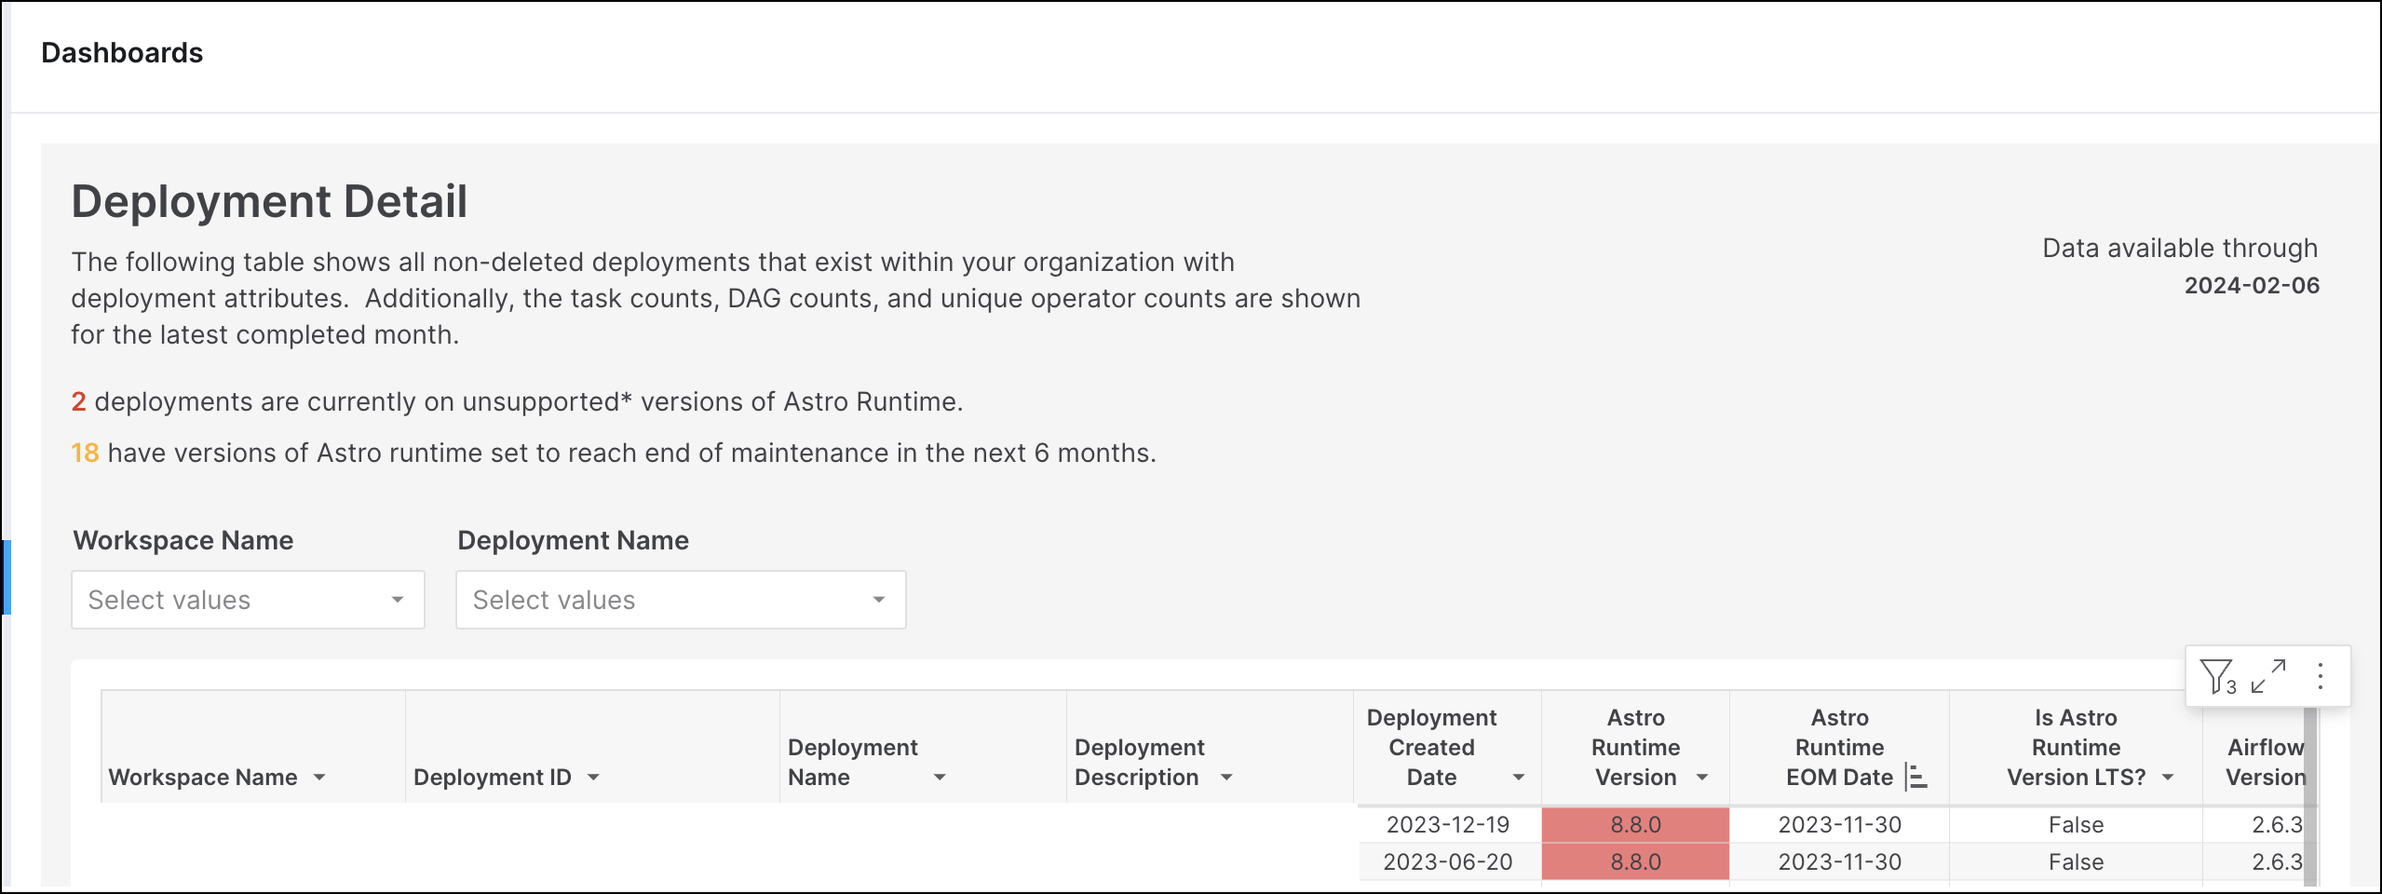
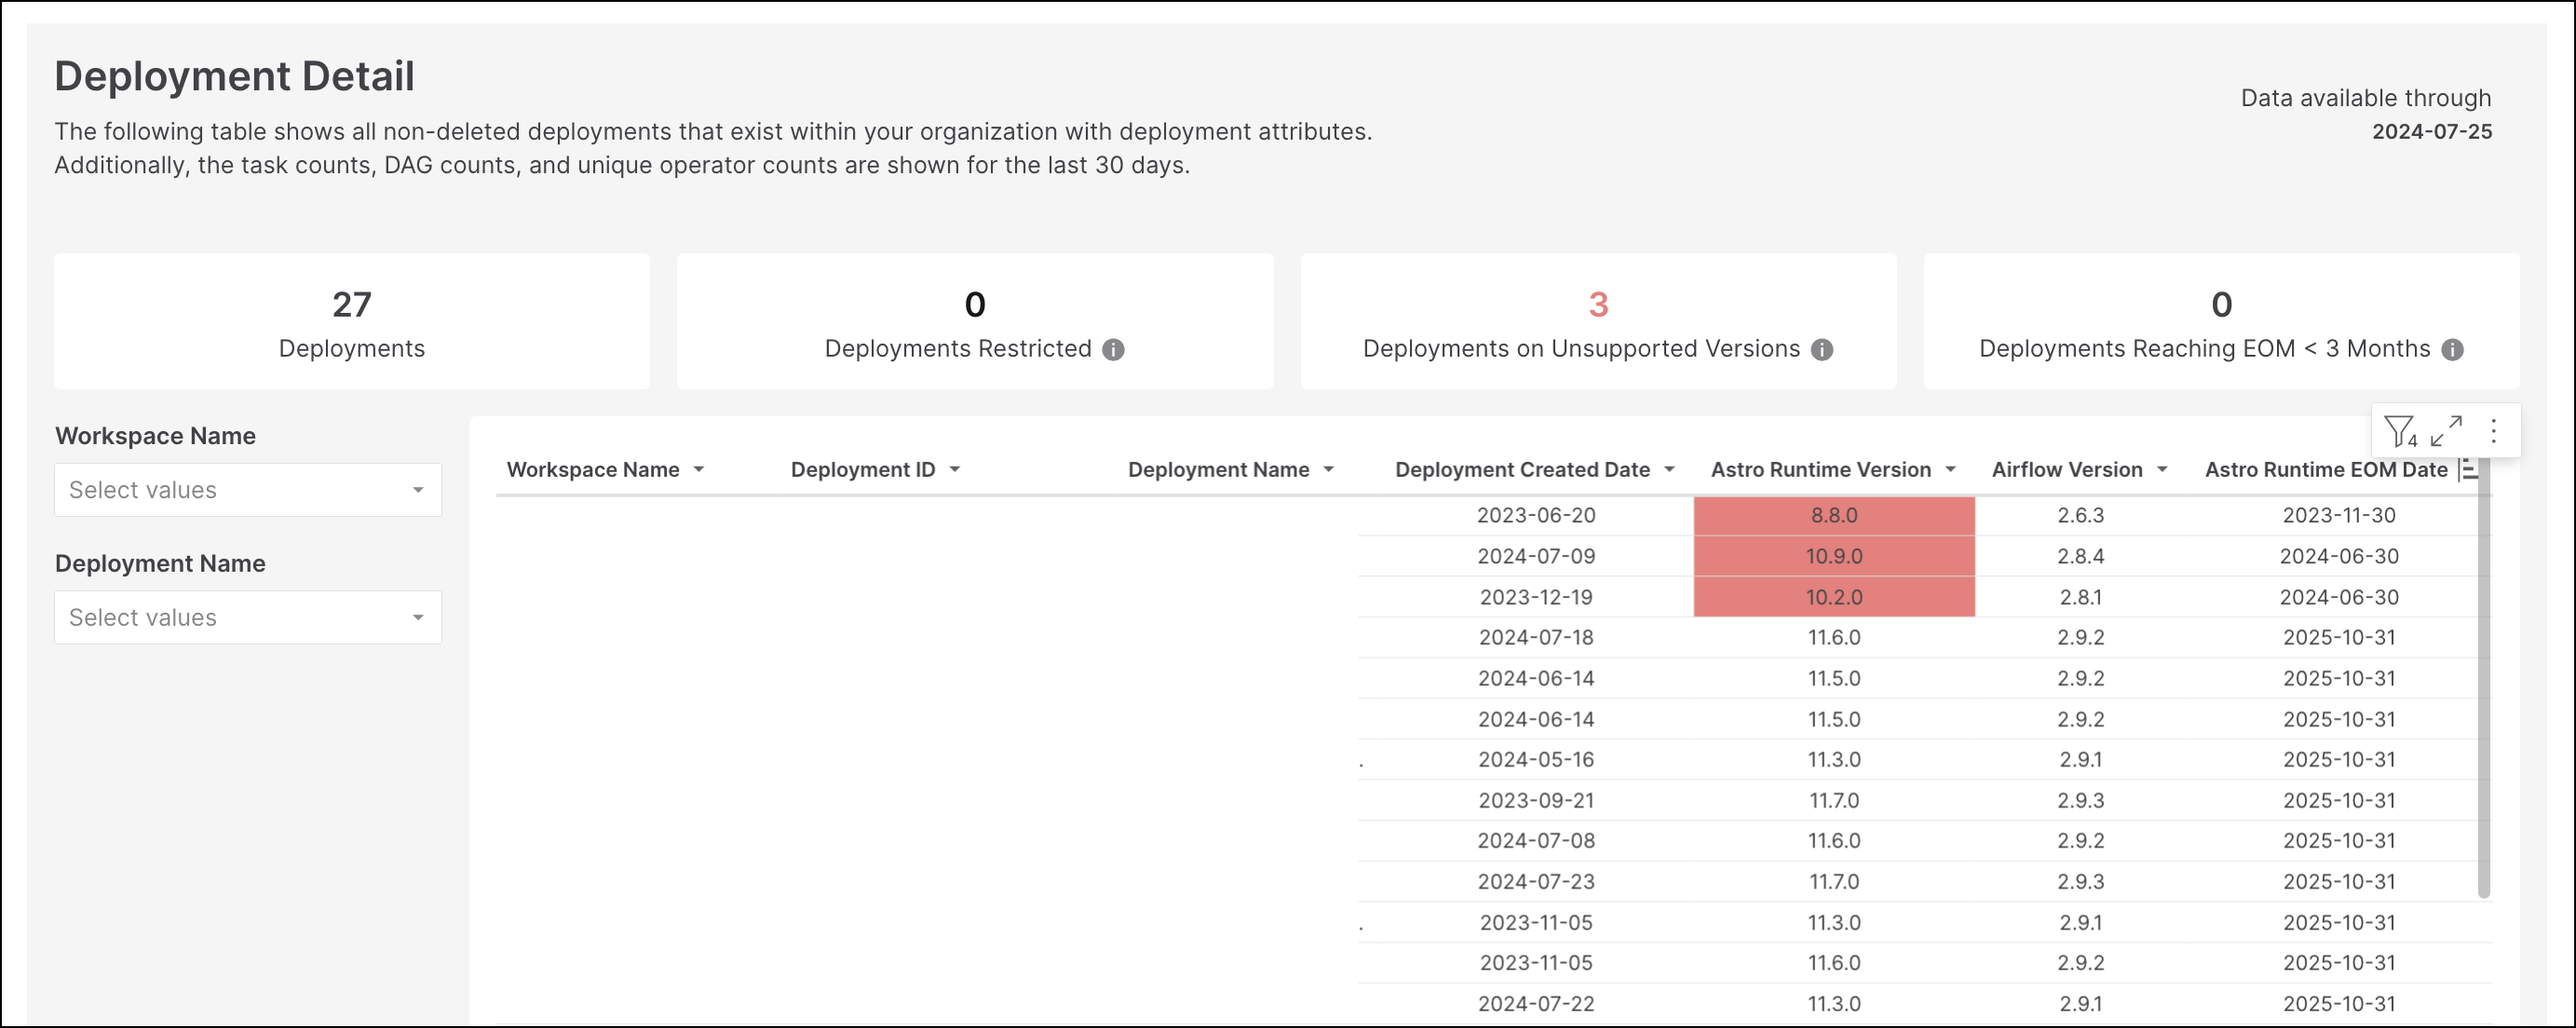
[Hold til 7/30 release] Make minor updates to the Organization Dashboard doc (#3956)
* Make minor updates to the Organization Dashboard doc

Everything looks great still, but there are few trivial changes in the copy and the screenshots need a refresh.

* Add updated screenshots

* Replace image

* Change flag

* Update image

* Remove public preview

* Apply suggestions from code review

---------

diff --git a/astro/organization-dashboard.md b/astro/organization-dashboard.md
@@ -10,12 +10,9 @@ import EnterpriseBadge from '@site/src/components/EnterpriseBadge';
 
 <EnterpriseBadge/>
 
-:::publicpreview
-:::
-
 Astro provides dashboards that share important metrics about your Organization's use of Astro, which you can use to manage Deployments and resources. These dashboards include:
 
-- Organization Explorer
+- Organization Overview
 - Deployment Detail
 - DAG Run Details
 - Cost Breakdown (Hosted only)
@@ -39,9 +36,9 @@ Only users with **Organization Billing Admin** [user permissions](user-permissio
 
 :::
 
-## Organization Explorer
+## Organization overview
 
-The **Organization Explorer** dashboard provides at-a-glance summaries about activity across your Organization's Deployments. You can also filter to view summaries for specific Workspaces or Deployments.
+The **Organization Overview** dashboard provides at-a-glance summaries about activity across your Organization's Deployments. You can also filter to view summaries for specific Workspaces or Deployments.
 
 This dashboard allows you to compare the activity and performances of Deployments to one another. You can identify Deployments, DAGs, or tasks that have had recent behavior changes or are performing in an unexpected way. For example, you can filter the data shown by time period, Workspace name, or Deployment name, to view data such as the number of successful or failed tasks within Workspaces or Deployments. Hovering your cursor over any of the charts brings up a detailed view of the data, indexed by date.
 

diff --git a/astro/org-dash-exports.md b/astro/org-dash-exports.md
@@ -8,9 +8,6 @@ import EnterpriseBadge from '@site/src/components/EnterpriseBadge';
 
 <EnterpriseBadge/>
 
-:::publicpreview
-:::
-
 As an Astro administrator, you can export reporting data to share with other team members or to keep a record of key performance indicators. Astro supports several different methods for exporting reporting data based on how and when you want to receive the data. Specifically, you can export data:
 
 - Manually through the Astro UI.
